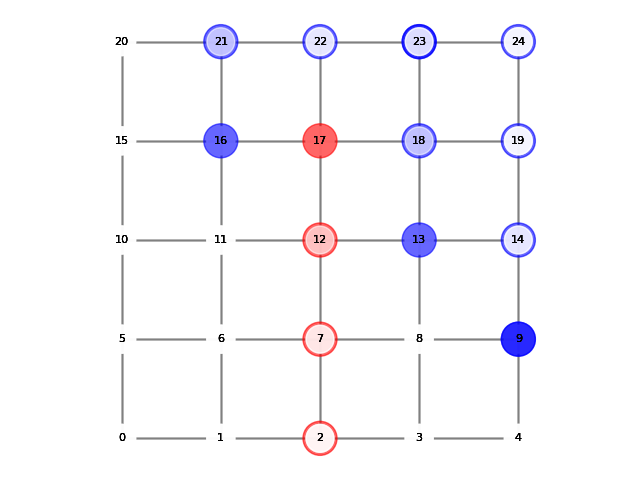
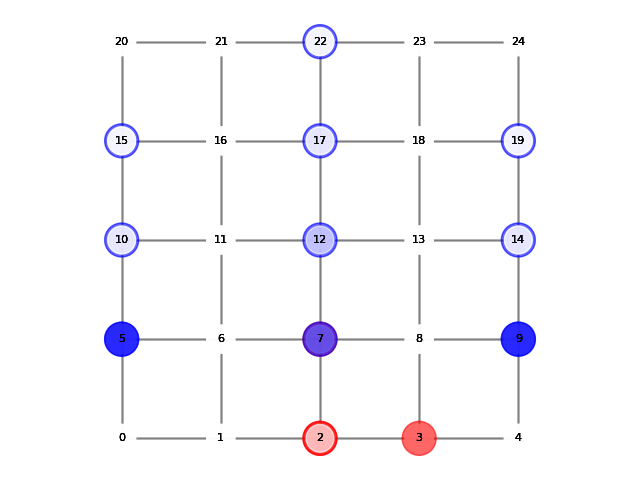
duplicate state dynamcis

diff --git a/environments.py b/environments.py
@@ -1,3 +1,4 @@
+from os import stat_result
 import simdata_utils as su
 import random 
 import time
@@ -5,26 +6,36 @@ from rl_plotting import PlotAgentsOnGraph, PlotAgentsOnGraph_
 
 class GraphWorld(object):
     """"""
-    def __init__(self, config, optimization_method='static', fixed_initial_positions=None):
+    def __init__(self, config, optimization_method='static', fixed_initial_positions=None, state_representation='etUt'):
         self.type='GraphWorld'
         self.optimization=optimization_method
         self.fixed_initial_positions = fixed_initial_positions
+        self.state_representation=state_representation
         self.sp = su.DefineSimParameters(config)
         dirname = su.make_result_directory(self.sp)
         if optimization_method == 'dynamic':
             dirname += '_allE'
         self.register, self.databank, self.iratios = self._LoadAndConvertDataFile(dirname) #su.LoadDatafile(dirname)
-        self.world_pool = [ind for k,ind in self.register['labels'].items()]
-        assert len(self.world_pool) == len(self.iratios)
+        # Create a world_pool list of indices of pre-saved initial conditions and their rollout
+        if fixed_initial_positions == None:
+            self.world_pool = [ind for k,ind in self.register['labels'].items()]
+            assert len(self.world_pool) == len(self.iratios)
+        elif type(fixed_initial_positions[0]) == tuple:
+            self.world_pool = [self.register['coords'][fixed_initial_positions]]
+        elif type(fixed_initial_positions[0]) == int:
+            self.world_pool = [self.register['labels'][fixed_initial_positions]]
+        else:
+            assert False
         self.current_entry=0
         self.u_paths=[]
         self.iratio=0
+        self.state0=()
         self.state=()
         self.global_t=0
         self.local_t=0
-        self.vec2dir={(0,1):'N',(1,0):'E',(0,-1):'S',(-1,0):'W'}
-        self.dir2vec={d:c for c,d in self.vec2dir.items()}
-        self.reachable_nodes = []
+        #self.vec2dir={(0,1):'N',(1,0):'E',(0,-1):'S',(-1,0):'W'}
+        #self.dir2vec={d:c for c,d in self.vec2dir.items()}
+        #self.reachable_nodes = []
         self.neighbors, self.in_degree, self.out_degree = self._GetGraphData()
         self.reset()
 
@@ -120,11 +131,11 @@ class GraphWorld(object):
         self.local_t = 0 # used if optimization is dynamic; lookup time for new paths is set to 0 after each step
         
         # Load pre-saved dataset of pursuers movement
-        if self.fixed_initial_positions is not None:
-            # if called with databank_entry (in coords), a specific saved initial position is loaded
-            entry = self.register['coords'][self.fixed_initial_positions]
-        else:
-            entry = random.choice(self.world_pool) #random.randint(0,len(self.iratios)-1)
+        # if self.fixed_initial_positions is not None:
+        #     # if called with databank_entry (in coords), a specific saved initial position is loaded
+        #     entry = self.register['coords'][self.fixed_initial_positions]
+        # else:
+        entry = random.choice(self.world_pool) #random.randint(0,len(self.iratios)-1)
         self.current_entry=entry
         data_sample = self.databank['labels'][entry]
         self.iratio = self.iratios[entry]
@@ -136,10 +147,16 @@ class GraphWorld(object):
         #if len(self.u_paths) < 2:
         #    assert False
         self.state    = self._to_state(e_init_labels,u_init_labels)
-        return self.state
+        self.state0   = self.state
+        if self.state_representation == 'etUt':
+            return self.state
+        elif self.state_representation == 'etUte0U0':
+            return self.state+self.state0
+        elif self.state_representation == 'ete0U0':
+            return tuple([self.state[0]])+self.state0
 
     def step(self, next_node):
-        info={'Captured':False}
+        info={'Captured':False, 'u_positions':self.state[1:]}
         self.global_t += 1
         self.local_t += 1
         assert next_node in self.neighbors[self.state[0]]
@@ -150,20 +167,28 @@ class GraphWorld(object):
         done = False
         if self.global_t >= self.sp.T*2:
             done=True
+            #print('Time ran out')
         if next_node in new_Upositions: # captured
             done=True
             reward += -10
             info={'Captured':True}
+            #print('Captured')
         if self.sp.labels2coord[next_node][1] == self.sp.most_northern_y: # northern boundary of manhattan graph reached
-           done = True
-           reward += +10
-        
+            done = True
+            reward += +10
+            #print('Goal reached')
         if self.optimization == 'dynamic' and not done:
             self.u_paths = self.databank['labels'][self.register['labels'][self.state]]['paths']
             if len(self.u_paths) < 2:
                 assert False
             self.local_t = 0
-        return self.state, reward, done, info
+
+        if self.state_representation == 'etUt':
+            return self.state, reward, done, info
+        elif self.state_representation == 'etUte0U0':
+            return self.state+self.state0, reward, done, info
+        elif self.state_representation == 'ete0U0':
+            return tuple([self.state[0]])+self.state0, reward, done, info
 
     def render(self):
         #escape position
@@ -171,10 +196,11 @@ class GraphWorld(object):
         #escape_path[-1] if t >= len(escape_path) else escape_path[t]
 
         #u positions
-        p = []
-        for P_path in self.u_paths:
-            pos = P_path[-1] if self.local_t >= len(P_path) else P_path[self.local_t]
-            p.append(pos)
+        p=self.state[1:]
+        # p = []
+        # for P_path in self.u_paths:
+        #     pos = P_path[-1] if self.local_t >= len(P_path) else P_path[self.local_t]
+        #     p.append(pos)
         PlotAgentsOnGraph_(self.sp, e, p, self.global_t, fig_show=False, fig_save=True)
         #PlotAgentsOnGraph(self.sp, e, p, self.global_t, fig_show=False, fig_save=True)
         #time.sleep(1)

diff --git a/rl_utils.py b/rl_utils.py
@@ -30,8 +30,8 @@ def EvaluatePolicy(env, policy, number_of_runs=1, print_runs=True, save_plots=Fa
             s,r,done,info = env.step(action)
             count+=1
             R+=r
-            if count >= env.sp.L:
-                break
+            # if count >= env.sp.L:
+            #     break
         if print_runs:
             print(str(s[0])+']. Done after',count,'steps, Captured:',info['Captured'],'Reward:',str(R))
         if save_plots:
@@ -58,7 +58,13 @@ def GetInitialStatesList(env, min_y_coord):
             if valid:
                 #print(k,v)
                 idx.append(v)
-                initpos.append(env._to_state_from_coords(k[0],k[1:]))
+                #initpos.append(env._to_state_from_coords(k[0],k[1:]))
+                ipos=[env.sp.coord2labels[k[0]]]
+                for u in k[1:]:
+                    ipos.append(env.sp.coord2labels[u])
+                ipos.sort()
+                initpos.append(tuple(ipos))
+
     return idx, initpos
 
 def GetSetOfPermutations(path):
@@ -114,19 +120,43 @@ def GetPathsTensor(env,db_indices):
             for P_path in unit_paths:
                 pos = P_path[-1] if t >= len(P_path) else P_path[t]
                 p.append(pos)
-            ipaths.append(p)
+            ipaths.append(tuple(p))
         paths.append(ipaths)
-    paths=np.array(paths)
-    print('Paths found:',paths.shape)
-    return paths
+    paths_np=np.array(paths)
+    print('Paths found:',paths_np.shape)
+    return paths_np, paths
 
 def SelectTrainset(env, min_y_coord, min_num_same_positions, min_num_worlds):
     db_indices, init_pos_list = GetInitialStatesList(env, min_y_coord)
-    paths = GetPathsTensor(env, db_indices)
-    duplicates_indices = GetDuplicatePathsIndices(paths, min_num_same_positions, min_num_worlds)
-    print(duplicates_indices)
-    init_pos_trainset=[init_pos_list[i] for i in duplicates_indices]
-    init_pos_trainset_indices=[db_indices[i] for i in duplicates_indices]
-    for entry in init_pos_trainset:
-        print(entry)
-    return init_pos_trainset_indices
+    paths_np, paths = GetPathsTensor(env, db_indices)
+
+    duplicates_indices0=set()
+    for world_source in range(len(paths)):
+        for i in range(len(paths[world_source])):
+            key1=list(paths[world_source][i])
+            key1.sort()
+            for world_target in range(len(paths)):
+                if world_target==world_source: continue
+                for t in range(env.sp.L-1):
+                    key2_t=list(paths[world_target][t])
+                    key2_t.sort()
+                    key2_tt=list(paths[world_target][t+1])
+                    key2_tt.sort()
+                    #if key2_t[:2] == key1[:2] and key2_tt[:2] != key1[:2]:
+                    if key2_t == key1 and key2_tt != key1:
+                        print('t=',t,'Pair found:',paths[world_source],paths[world_target])
+                        duplicates_indices0.add(world_target)
+                        duplicates_indices0.add(world_source)
+    
+    duplicates_indices0 = list(duplicates_indices0)
+    duplicates_indices1 = GetDuplicatePathsIndices(paths_np, min_num_same_positions, min_num_worlds)    
+    
+    init_pos_trainset0=[init_pos_list[i] for i in duplicates_indices0]
+    init_pos_trainset_indices0=[db_indices[i] for i in duplicates_indices0]
+    init_pos_trainset1=[init_pos_list[i] for i in duplicates_indices1]
+    init_pos_trainset_indices1=[db_indices[i] for i in duplicates_indices1]
+
+    # print('Initial positions in trainset:')
+    # for entry in init_pos_trainset1:
+    #     print(entry)
+    return init_pos_trainset_indices0, init_pos_trainset_indices0

diff --git a/test.py b/test.py
@@ -1,25 +1,17 @@
-import simdata_utils as su
-from environments import GraphWorld
-import random
-import simdata_utils as su
-from rl_utils import EvaluatePolicy, SelectTrainset
-from rl_policy import LeftUpPolicy, RandomPolicy
+class Animal(object):
+    def __init__(self, yell):
+        self.yell=yell
+    def pet(self):
+        print(self.yell)
+
+class Dog(Animal):
+    def __init__(self):
+        super().__init__("woof")
+    def pet(self):
+        super().pet()
+        print('!')
 
 
-#random.seed(422)
-
-configs = su.GetConfigs() # dict with pre-set configs: "Manhattan5","Manhattan11","CircGraph"
-#conf=configs['Manhattan3']
-#conf=configs['Manhattan5']
-conf=configs['Manhattan11']
-#conf=configs['CircGraph']
-#conf=configs['TKGraph']
-conf['direction_north']=False
-
-
-
-env=GraphWorld(conf, optimization_method='static', fixed_initial_positions=None)
-init_pos_trainset_indices = SelectTrainset(env, min_y_coord=env.sp.N-5, min_num_same_positions=env.sp.U, min_num_worlds=5)
-env.world_pool = init_pos_trainset_indices # limit the training set to the selected entries
-print('-------- sampling initial states')
-su.SimulateInteractiveMode(env)
+#dog = Animal("woof")
+dog = Dog()
+dog.pet()

diff --git a/main_sim.py b/main_sim.py
@@ -9,10 +9,10 @@ random.seed(911)
 
 configs = su.GetConfigs() # dict with pre-set configs: "Manhattan5","Manhattan11","CircGraph"
 #conf=configs['Manhattan3']
-#conf=configs['Manhattan5']
+conf=configs['Manhattan5']
 #conf=configs['Manhattan11'] # initial condition in register: ((5,0),(3,10),(6,10),(9,10))
 #conf=configs['CircGraph']
-conf=configs['TKGraph']
+#conf=configs['TKGraph']
 conf['direction_north']=False
 
 # DEMO: replay Gurobi optimizations
@@ -22,7 +22,7 @@ conf['direction_north']=False
 #su.SimulatePursuersPathways(conf, optimization_method='static', fixed_initial_positions=((0,1),(2,2)))
 
 # DEMO: interactive mode
-env=GraphWorld(conf, optimization_method='static', fixed_initial_positions=None)#((0,1),(2,2)))#None)#((2,0),(3,4),(4,3),(4,4)))
+env=GraphWorld(conf, optimization_method='static', fixed_initial_positions=(2,15,15,21))#((0,1),(2,2)))#None)#((2,0),(3,4),(4,3),(4,4)))
 su.SimulateInteractiveMode(env)
 
 # DEMO: policy evaluation

diff --git a/rl_extract_overlapping_upaths.py b/rl_extract_overlapping_upaths.py
@@ -1,0 +1,23 @@
+import simdata_utils as su
+from environments import GraphWorld
+import random
+import simdata_utils as su
+from rl_utils import EvaluatePolicy, SelectTrainset
+from rl_policy import LeftUpPolicy, RandomPolicy
+
+
+#random.seed(422)
+
+configs = su.GetConfigs() # dict with pre-set configs: "Manhattan5","Manhattan11","CircGraph"
+#conf=configs['Manhattan3']
+conf=configs['Manhattan5']
+#conf=configs['Manhattan11']
+#conf=configs['CircGraph']
+#conf=configs['TKGraph']
+conf['direction_north']=False
+
+env=GraphWorld(conf, optimization_method='static', fixed_initial_positions=None)
+init_pos_trainset_indices0, init_pos_trainset_indices1 = SelectTrainset(env, min_y_coord=env.sp.N-2, min_num_same_positions=env.sp.U, min_num_worlds=4)
+env.world_pool = init_pos_trainset_indices1 # limit the training set to the selected entries
+print('-------- sampling initial states')
+su.SimulateInteractiveMode(env)

diff --git a/images_rl/test_M5_(2,10,22,24)_NFalse_static_v0/saved_main_rl.py b/images_rl/test_M5_(2,10,22,24)_NFalse_static_v0/saved_main_rl.py
@@ -7,20 +7,20 @@ import numpy as np
 import simdata_utils as su
 
 num_seeds   = 50
-eps_0       = .2
+eps_0       = 1.
 eps_min     = 0.
-cutoff      = 100#200
-num_iter    = 500
+cutoff      = 500
+num_iter    = 1500
 gamma       = 1.
-alpha_0     = .5
+alpha_0     = .1
 alpha_decay = 0.
-initial_Q_values = 0.
+initial_Q_values = 10.
 
 configs = su.GetConfigs() # dict with pre-set configs: "Manhattan5","Manhattan11","CircGraph"
 conf=configs['Manhattan5']
 conf['direction_north']=False
 
-env = GraphWorld(conf, optimization_method='dynamic', fixed_initial_positions=(2,15,19,22),state_representation='etUte0U0')
+env = GraphWorld(conf, optimization_method='static', fixed_initial_positions=(2,15,19,22))#((2,0),(3,4),(4,3),(4,4)))
 policy = EpsilonGreedyPolicy(env, eps_0, eps_min, cutoff, initial_Q_values)
 
 metrics_episode_returns = {}

diff --git a/images_rl/test_M5_(2,10,22,24)_NFalse_static_v1/saved_main_rl.py b/images_rl/test_M5_(2,10,22,24)_NFalse_static_v1/saved_main_rl.py
@@ -9,7 +9,7 @@ import simdata_utils as su
 num_seeds   = 50
 eps_0       = .2
 eps_min     = 0.
-cutoff      = 100#200
+cutoff      = 100
 num_iter    = 500
 gamma       = 1.
 alpha_0     = .5
@@ -20,7 +20,7 @@ configs = su.GetConfigs() # dict with pre-set configs: "Manhattan5","Manhattan11
 conf=configs['Manhattan5']
 conf['direction_north']=False
 
-env = GraphWorld(conf, optimization_method='dynamic', fixed_initial_positions=(2,15,19,22),state_representation='etUte0U0')
+env = GraphWorld(conf, optimization_method='static', fixed_initial_positions=(2,15,19,22))#((2,0),(3,4),(4,3),(4,4)))
 policy = EpsilonGreedyPolicy(env, eps_0, eps_min, cutoff, initial_Q_values)
 
 metrics_episode_returns = {}

diff --git a/images_rl/test_M5_(2,10,22,24)_NTrue_static_v1/saved_main_rl.py b/images_rl/test_M5_(2,10,22,24)_NTrue_static_v1/saved_main_rl.py
@@ -18,9 +18,9 @@ initial_Q_values = 0.
 
 configs = su.GetConfigs() # dict with pre-set configs: "Manhattan5","Manhattan11","CircGraph"
 conf=configs['Manhattan5']
-conf['direction_north']=False
+conf['direction_north']=True
 
-env = GraphWorld(conf, optimization_method='dynamic', fixed_initial_positions=(2,15,19,22),state_representation='etUte0U0')
+env = GraphWorld(conf, optimization_method='static', fixed_initial_positions=(2,15,19,22))#((2,0),(3,4),(4,3),(4,4)))
 policy = EpsilonGreedyPolicy(env, eps_0, eps_min, cutoff, initial_Q_values)
 
 metrics_episode_returns = {}
